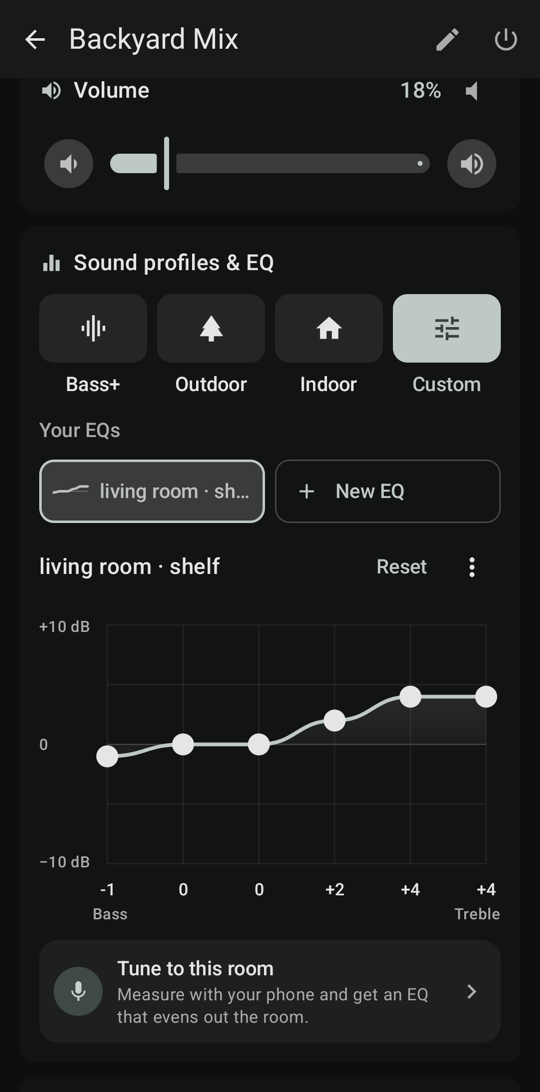
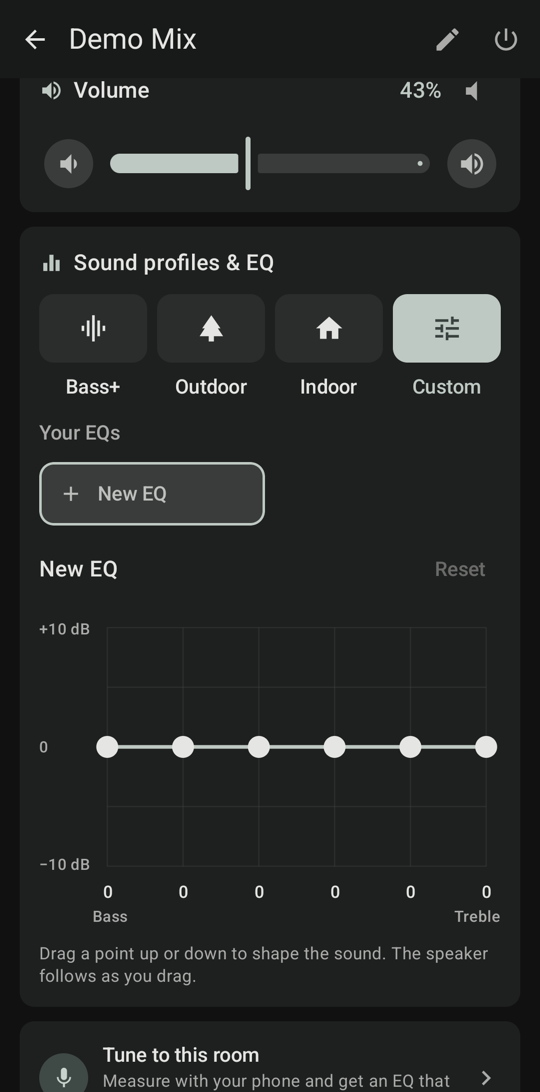
README: new screenshots taken on demo mode's dummy Mix and Lightboks, led by the device list's quick settings, and tools/screenshots.py now switches demo mode on and shoots the dummies, so no hardware or stand-in names are needed

diff --git a/tools/screenshots.py b/tools/screenshots.py
@@ -1,17 +1,19 @@
 #!/usr/bin/env python3
 """Retakes the README screenshots on a phone over adb.
 
-Needs a SOUNDBOKS speaker and a Lightboks switched on near the phone, and macOS (crops with sips).
-Builds and installs a release build (so no debug tools show), steps through the app and writes
-docs/screenshots/<shot>.png, 540 px wide, without the status and navigation bars.
+Shoots demo mode's dummy Mix and Lightboks, so no hardware is needed, only a phone and macOS (crops
+with sips). Builds and installs a release build (so no debug tools show), switches demo mode on,
+steps through the app and writes docs/screenshots/<shot>.png, 540 px wide, without the status and
+navigation bars.
 
-Devices advertise their team ID as their name. The shots show stand-ins from local.properties:
+Real devices nearby still show on the device list, by their team ID. To show stand-ins instead, set
+them in local.properties:
 
     screenshot.names=<team ID>=Backyard Mix;<team ID>=Stage light
 
 Usage: tools/screenshots.py [shot ...]   (default: all of them)
 
-Custom EQ switches the speaker to Custom for its shot and back to its sound profile afterwards.
+Custom EQ switches the dummy Mix to Custom for its shot and back to its sound profile afterwards.
 Reinstall your debug build when done (./gradlew installDebug).
 """
 import html
@@ -35,6 +37,7 @@ def adb(*args: str, binary: bool = False):
 class Node:
     def __init__(self, attrs: str):
         self.text = html.unescape(re.search(r' text="([^"]*)"', attrs).group(1))
+        self.desc = html.unescape(re.search(r' content-desc="([^"]*)"', attrs).group(1))
         self.checked = ' checked="true"' in attrs
         self.left, self.top, self.right, self.bottom = map(int, re.search(r'bounds="\[(\d+),(\d+)\]\[(\d+),(\d+)\]"', attrs).groups())
         self.center = ((self.left + self.right) // 2, (self.top + self.bottom) // 2)
@@ -55,7 +58,10 @@ def nodes() -> list[Node]:
 
 
 def find(text: str, exact: bool = True) -> Node | None:
-    return next((n for n in nodes() if (n.text == text if exact else text in n.text)), None)
+    """The first view whose text, or else whose content description, is [text]."""
+    def matches(s: str) -> bool:
+        return s == text if exact else text in s
+    return next((n for n in nodes() if matches(n.text) or matches(n.desc)), None)
 
 
 def wait_for(text: str, exact: bool = True, timeout: float = 30) -> Node:
@@ -115,27 +121,35 @@ def shot(name: str, work: Path):
     print(f"  {name}.png")
 
 
-def open_device(kind: str):
-    """From the device list, opens the speaker ("SOUNDBOKS") or the Lightboks and waits for its controls."""
-    wait_for("Scan again", timeout=40)  # tapping during a scan races the list's updates
-    tap(kind, exact=False)
-    wait_for("Volume" if kind == "SOUNDBOKS" else "Brightness", timeout=40)
+SPEAKER = "Demo Mix"
+LIGHT = "Demo Lightboks"
+
+
+def open_device(name: str):
+    """From the device list, opens a dummy and waits for its controls."""
+    tap(name)
+    # The list's quick settings have a Volume and a Brightness of their own, so first wait for the screen.
+    wait_for("Back to device list")
+    wait_for("Volume" if name == SPEAKER else "Brightness", timeout=40)
 
 
 def take(shots: list[str], work: Path):
     adb("shell", "am", "force-stop", "dev.boksremote")
     adb("shell", "monkey", "-p", "dev.boksremote", "-c", "android.intent.category.LAUNCHER", "1")
+    # A release build starts with demo mode off, and doesn't keep it across restarts.
+    wait_for("More options")
+    if not find(SPEAKER):
+        tap("More options")
+        tap("Demo mode")
+    wait_for(SPEAKER)
+    wait_for(LIGHT)
     if "devices" in shots:
-        # Taken mid-scan, with the spinner going; the screen can't be read until the scan ends, so
-        # the check that both devices made it into the shot comes afterwards.
-        time.sleep(8)
+        time.sleep(2)  # the dummies connect, then their quick settings show
         shot("devices", work)
-    wait_for("SOUNDBOKS", exact=False)
-    wait_for("Lightboks", exact=False)
 
     speaker_shots = [s for s in ("speaker", "custom-eq", "room-tuning") if s in shots]
     if speaker_shots:
-        open_device("SOUNDBOKS")
+        open_device(SPEAKER)
         if "speaker" in shots:
             shot("speaker", work)
         if "custom-eq" in shots:
@@ -152,12 +166,12 @@ def take(shots: list[str], work: Path):
             tap("Start")
             wait_for("Where is the speaker?")
             shot("room-tuning", work)
-            back()
+            tap("Close")  # Back would only step back through the wizard
         back()
 
     light_shots = [s for s in ("lightboks", "palettes", "palette-editor", "dmx-bridge") if s in shots]
     if light_shots:
-        open_device("Lightboks")
+        open_device(LIGHT)
         if "lightboks" in shots:
             shot("lightboks", work)
         if "palettes" in shots:
@@ -173,7 +187,7 @@ def take(shots: list[str], work: Path):
             label = wait_for("Main 1")
             x, _ = label.center
             adb("shell", "input", "tap", str(x), str(label.top - 60))
-            wait_for("Preview on the light")
+            wait_for("Live on the light")
             shot("palette-editor", work)
             back()  # discards the draft and puts the light's palette back
         if "dmx-bridge" in shots:
@@ -199,11 +213,10 @@ def main():
 
     props = (ROOT / "local.properties").read_text() if (ROOT / "local.properties").exists() else ""
     names = re.search(r"^screenshot\.names=(.*)$", props, re.M)
-    if not names:
-        sys.exit("add screenshot.names=<team ID>=<name shown>;… to local.properties, so no team IDs show")
+    stand_ins = [f"-Pboksremote.screenshotNames={names.group(1).strip()}"] if names else []
 
     print("Building and installing a release build…")
-    subprocess.run(["./gradlew", "-q", "installRelease", f"-Pboksremote.screenshotNames={names.group(1).strip()}"], cwd=ROOT, check=True)
+    subprocess.run(["./gradlew", "-q", "installRelease", *stand_ins], cwd=ROOT, check=True)
     with tempfile.TemporaryDirectory() as work:
         take(shots, Path(work))
     print("Done. Reinstall your debug build with ./gradlew installDebug.")

diff --git a/README.md b/README.md
@@ -33,10 +33,11 @@ Bluetooth LE only, with no account and no cloud.</p>
 > **Not affiliated with SOUNDBOKS.** Boks Remote is an unofficial community project, not made, endorsed or supported by SOUNDBOKS ApS. "SOUNDBOKS" and "Lightboks" are trademarks of their owner and are used here only to say which devices the app works with. Use it at your own risk.
 
 <p align="center">
-  <img src="docs/screenshots/custom-eq.png" width="24%" alt="Speaker screen with volume and a custom six-band EQ curve">
-  <img src="docs/screenshots/room-tuning.png" width="24%" alt="Room tuning wizard">
-  <img src="docs/screenshots/lightboks.png" width="24%" alt="Lightboks screen with brightness, light mode, the scene in use and its colours">
-  <img src="docs/screenshots/palette-editor.png" width="24%" alt="Palette editor with a live preview on the light">
+  <img src="docs/screenshots/devices.png" width="19%" alt="Device list with quick settings under a Lightboks and a speaker">
+  <img src="docs/screenshots/custom-eq.png" width="19%" alt="Speaker screen with volume, sound profiles and a custom six-band EQ">
+  <img src="docs/screenshots/room-tuning.png" width="19%" alt="Room tuning wizard">
+  <img src="docs/screenshots/lightboks.png" width="19%" alt="Lightboks screen with brightness in the light's colours, light mode, the scene in use and its palette">
+  <img src="docs/screenshots/palette-editor.png" width="19%" alt="Palette editor with a live preview on the light">
 </p>
 
 ## Install
@@ -53,7 +54,7 @@ Every release is signed with the same key, so a newer APK installs over the old 
 
 ## Features
 
-Speakers and the Lightboks each get a screen with the controls their hardware has. **Demo mode** (⋮ on the device list) shows both without the hardware.
+Speakers and the Lightboks each get a screen with the controls their hardware has, and **quick settings** right on the device list: volume and sound profiles for a speaker, brightness, light mode and palette for a Lightboks. **Demo mode** (⋮ on the device list) shows both without the hardware.
 
 ### SOUNDBOKS speakers
 
